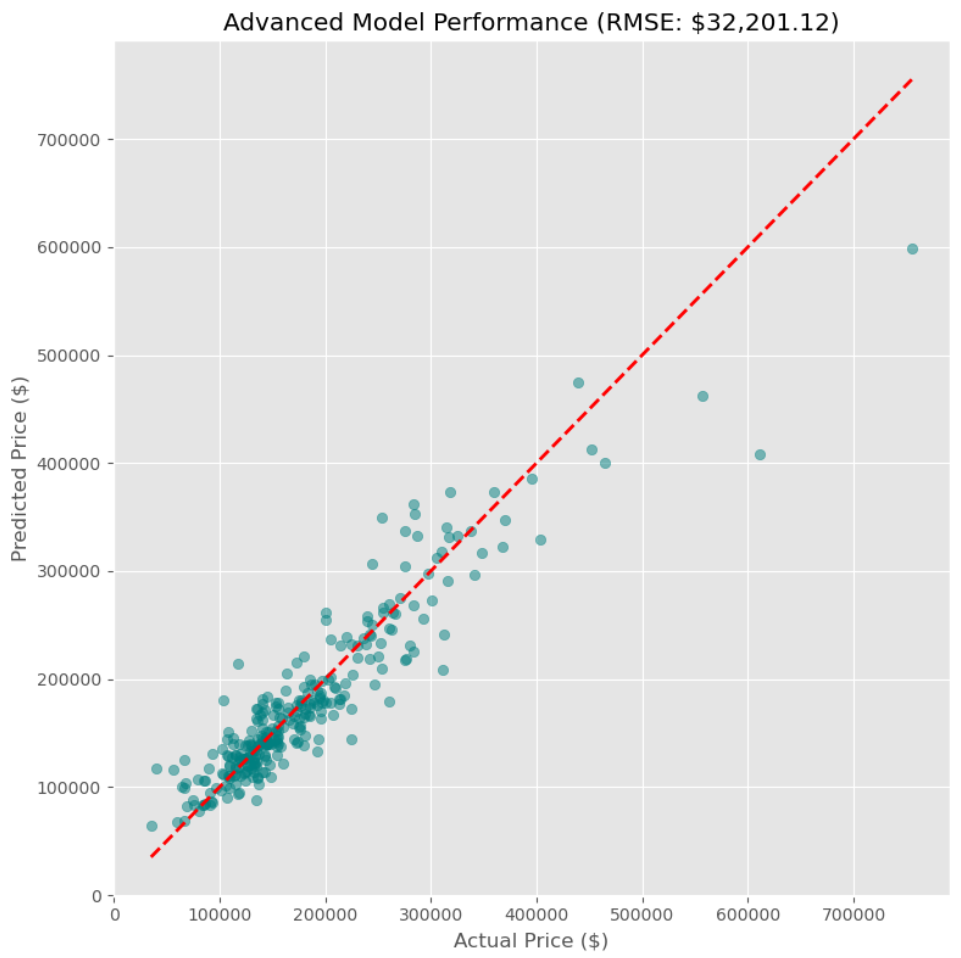
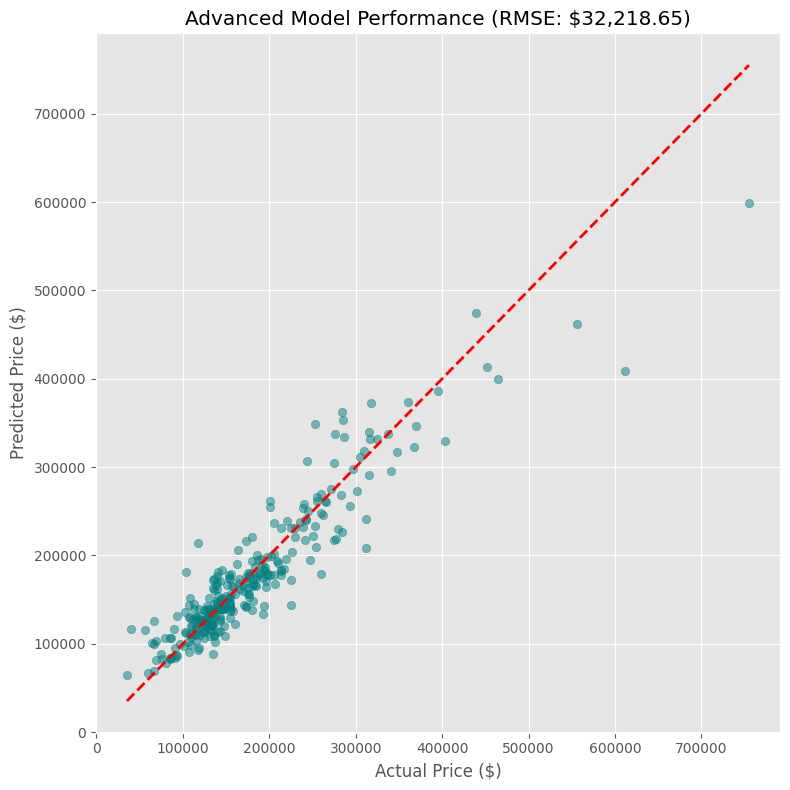
Update Data and Statistics inconsistency

diff --git a/reports/pdf/content/3. MÔ HÌNH HÓA CƠ SỞ - KỸ THUẬT TRONG ĐỀ CƯƠNG.tex b/reports/pdf/content/3. MÔ HÌNH HÓA CƠ SỞ - KỸ THUẬT TRONG ĐỀ CƯƠNG.tex
@@ -1,117 +1,117 @@
 \clearpage
-\section{Mô hình hoá cơ sở - kỹ thuật trong đề cương}
+\section{Mô hình hoá cơ sở sử dụng thuật toán đơn giản}
 \subsection{Lựa chọn thuật toán}
 %Mô hình Hồi quy tuyến tính (Linear Regression) áp dụng trên đặc trưng đơn (ví dụ: GrLivArea). Đây là phần đáp ứng yêu cầu dùng thuật toán trong đề cương môn học.
 Trong quá trình xây dựng mô hình cơ sở, nhóm lựa chọn \textbf{Hồi quy tuyến tính đơn giản (Simple Linear Regression)}. Đây là một thuật toán nền tảng trong học máy, thường được sử dụng để thiết lập baseline trước khi thử nghiệm các mô hình phức tạp hơn. \medskip
 
 Nhóm sẽ sử dụng Heatmap tương quan để quan sát sự tương quan giữa các thành phần với SalePrice.
 \begin{figure}[H]
-    \centering
-    \includegraphics[width=1\linewidth]{images/baseline_model/Heatmap.png}
-    \caption{Heatmap tương quan giữa các thành phần với SalePrice}
+  \centering
+  \includegraphics[width=1\linewidth]{images/baseline_model/Heatmap.png}
+  \caption{Heatmap tương quan giữa các thành phần với SalePrice}
 \end{figure}
 Sau khi quan sát biểu đồ Heatmap thì một số biến có độ tương quan với SalePrice vượt ngưỡng 0.7 là: Qual\_x\_TotalSF (0,82), Log\_GrLivArea (0.73), Log\_TotalSF (0.81), TotalSF (0.78), GrLivArea (0.7), OverallQual (0.82).
 \subsubsection{Cơ sở lựa chọn:}
 \begin{itemize}
-    \item[-] Qua phân tích biểu đồ tương quan, nhiều biến có hệ số tương quan cao với SalePrice như OverallQual, TotalSF, Log\_TotalSF. Tuy nhiên, các biến này phần lớn là kết quả của quá trình tiền xử lý hoặc kết hợp nhiều đặc trưng. Để đảm bảo tính đơn giản, trực quan và dễ diễn giải, nhóm đã lựa chọn GrLivArea - một đặc trưng gốc phản ánh diện tích sinh hoạt
-    \item[-] Nhóm sau đó sử dụng thêm biểu đồ phân tán (scatter plot) giữa GrLivArea và SalePrice để minh họa xu hướng tuyến tính rõ rệt: khi diện tích sinh hoạt càng lớn thì giá bán nhà càng cao.
+  \item[-] Qua phân tích biểu đồ tương quan, nhiều biến có hệ số tương quan cao với SalePrice như OverallQual, TotalSF, Log\_TotalSF. Tuy nhiên, các biến này phần lớn là kết quả của quá trình tiền xử lý hoặc kết hợp nhiều đặc trưng. Để đảm bảo tính đơn giản, trực quan và dễ diễn giải, nhóm đã lựa chọn GrLivArea - một đặc trưng gốc phản ánh diện tích sinh hoạt
+  \item[-] Nhóm sau đó sử dụng thêm biểu đồ phân tán (scatter plot) giữa GrLivArea và SalePrice để minh họa xu hướng tuyến tính rõ rệt: khi diện tích sinh hoạt càng lớn thì giá bán nhà càng cao.
 \end{itemize}
 \begin{figure}[H]
-    \centering
-    \includegraphics[width=1\linewidth]{images/baseline_model/Scatter.png}
-    \caption{Tuyến tính giữa GrLivArea và SalePrice}
+  \centering
+  \includegraphics[width=1\linewidth]{images/baseline_model/Scatter.png}
+  \caption{Tuyến tính giữa GrLivArea và SalePrice}
 \end{figure}
 \begin{itemize}
-    \item[-] Do mối quan hệ tuyến tính nổi bật, nhóm lựa chọn \textbf{Hồi quy tuyến tính đơn giản (Simple Linear Regression)} làm mô hình cơ sở.
-    \item[-] Đây là thuật toán nền tảng, dễ triển khai và dễ diễn giải, phù hợp để thiết lập baseline trước khi thử nghiệm các mô hình phức tạp hơn.
+  \item[-] Do mối quan hệ tuyến tính nổi bật, nhóm lựa chọn \textbf{Hồi quy tuyến tính đơn giản (Simple Linear Regression)} làm mô hình cơ sở.
+  \item[-] Đây là thuật toán nền tảng, dễ triển khai và dễ diễn giải, phù hợp để thiết lập baseline trước khi thử nghiệm các mô hình phức tạp hơn.
 \end{itemize}
 \subsubsection{Ý nghĩa của việc chọn mô hình cơ sở:}
 \begin{itemize}
-    \item[-] Thiết lập chuẩn mực ban đầu để so sánh hiệu quả cải thiện khi áp dụng các mô hình đa biến hoặc phi tuyến tính.
-    \item[-] Kiểm chứng giả thuyết rằng diện tích sinh hoạt là một yếu tố quan trọng trong việc định giá nhà.
-    \item[-] Cho phép trực quan hóa mối quan hệ giữa biến đầu vào và biến mục tiêu, từ đó phát hiện những giới hạn của mô hình này. 
+  \item[-] Thiết lập chuẩn mực ban đầu để so sánh hiệu quả cải thiện khi áp dụng các mô hình đa biến hoặc phi tuyến tính.
+  \item[-] Kiểm chứng giả thuyết rằng diện tích sinh hoạt là một yếu tố quan trọng trong việc định giá nhà.
+  \item[-] Cho phép trực quan hóa mối quan hệ giữa biến đầu vào và biến mục tiêu, từ đó phát hiện những giới hạn của mô hình này.
 \end{itemize}
 \subsection{Huấn luyện và Đánh giá}
 %Phân tích các chỉ số đánh giá (RMSE, R-squared) và đồ thị phân dư (Residuals).
 \subsubsection{Quá trình huấn luyện:}
 \begin{itemize}
-    \item[-] Dataset sẽ được chia thành Training set (80\%) và Validation set (20\%).
+  \item[-] Dataset sẽ được chia thành Training set (80\%) và Validation set (20\%).
 \end{itemize}
 \begin{figure}[H]
-    \centering
-    \includegraphics[width=0.8\linewidth]{images/baseline_model/SplitDataset.png}
-    \caption{Chia Dataset thành Training và Validation set}
+  \centering
+  \includegraphics[width=0.8\linewidth]{images/baseline_model/SplitDataset.png}
+  \caption{Chia Dataset thành Training và Validation set}
 \end{figure}
 \begin{itemize}
-    \item[-] Sau khi thực hiện chia dữ liệu thành các tập training và validation thì nhóm đưa dữ liệu vào mô hình để huấn luyện.
+  \item[-] Sau khi thực hiện chia dữ liệu thành các tập training và validation thì nhóm đưa dữ liệu vào mô hình để huấn luyện.
 \end{itemize}
 \begin{figure}[H]
-    \centering
-    \includegraphics[width=0.5\linewidth]{images/baseline_model/Model.png}
-    \caption{Đưa dữ liệu vào mô hình}
+  \centering
+  \includegraphics[width=0.5\linewidth]{images/baseline_model/Model.png}
+  \caption{Đưa dữ liệu vào mô hình}
 \end{figure}
 \begin{itemize}
-    \item[-] Sau khi huấn luyện, mô hình được dùng để dự đoán giá nhà trên tập dữ liệu kiểm định.
+  \item[-] Sau khi huấn luyện, mô hình được dùng để dự đoán giá nhà trên tập dữ liệu kiểm định.
 \end{itemize}
 \subsubsection{Trực quan hóa kết quả mô hình:}
 \begin{itemize}
-    \item[-] Để kiểm chứng hiệu quả của mô hình hồi quy tuyến tính đơn giản, nhóm biểu diễn đường hồi quy (regression line) trên tập kiểm định và phân tích sai số qua biểu đồ sai số (residual plot).
+  \item[-] Để kiểm chứng hiệu quả của mô hình hồi quy tuyến tính đơn giản, nhóm biểu diễn đường hồi quy (regression line) trên tập kiểm định và phân tích sai số qua biểu đồ sai số (residual plot).
 \end{itemize}
 \begin{figure}[H]
-    \includegraphics[width=1\linewidth]{images/baseline_model/RegressionLine.png}
-    \caption{Đường hồi quy tuyến tính giữa GrLivArea và SalePrice trên tập kiểm định}
+  \includegraphics[width=1\linewidth]{images/baseline_model/RegressionLine.png}
+  \caption{Đường hồi quy tuyến tính giữa GrLivArea và SalePrice trên tập kiểm định}
 \end{figure}
 \begin{figure}[H]
-    \includegraphics[width=1\linewidth]{images/baseline_model/ResidualPlot.png}
-    \caption{Biểu đồ sai số (Residual Plot) kiểm tra độ lệch của mô hình}
+  \includegraphics[width=1\linewidth]{images/baseline_model/ResidualPlot.png}
+  \caption{Biểu đồ sai số (Residual Plot) kiểm tra độ lệch của mô hình}
 \end{figure}
 \subsubsection{Kết quả đánh giá:}
 \begin{itemize}
-    \item[-] Nhóm sẽ sử dụng công thức RMSE (Root Mean Squared Error) để đo lường độ lệch trung bình giữa giá trị dự đoán và giá trị thực tế và công thức R-squared để nhận biết mô hình giải thích được bao nhiêu phần trăm biến thiên của dữ liệu.
-    \item[-] Công thức RMSE: 
-\begin{equation}
-RMSE = \sqrt{\frac{1}{n} \sum_{i=1}^{n} (y_i - \hat{y}_i)^2}
-\end{equation}
-    \item[-] Công thức R-Squared: 
-\begin{equation}
-R^2 = 1 - \frac{SS_{res}}{SS_{tot}} = 1 - \frac{\sum_{i=1}^{n} (y_i - \hat{y}_i)^2}{\sum_{i=1}^{n} (y_i - \bar{y})^2}
-\end{equation}
-    \item[-] RMSE (Root Mean Squared Error): \$58,137.54 
-    \item[-] R-Squared: 0.5402
+  \item[-] Nhóm sẽ sử dụng công thức RMSE (Root Mean Squared Error) để đo lường độ lệch trung bình giữa giá trị dự đoán và giá trị thực tế và công thức R-squared để nhận biết mô hình giải thích được bao nhiêu phần trăm biến thiên của dữ liệu.
+  \item[-] Công thức RMSE:
+    \begin{equation}
+      RMSE = \sqrt{\frac{1}{n} \sum_{i=1}^{n} (y_i - \hat{y}_i)^2}
+    \end{equation}
+  \item[-] Công thức R-Squared:
+    \begin{equation}
+      R^2 = 1 - \frac{SS_{res}}{SS_{tot}} = 1 - \frac{\sum_{i=1}^{n} (y_i - \hat{y}_i)^2}{\sum_{i=1}^{n} (y_i - \bar{y})^2}
+    \end{equation}
+  \item[-] RMSE (Root Mean Squared Error): \$58,137.54
+  \item[-] R-Squared: 0.5402
 \end{itemize}
 \subsubsection{Diễn giải kết quả:}
 \begin{itemize}
-    \item[-] Mô hình giải thích được khoảng 54\% sự biến thiên của giá nhà, xác nhận rằng diện tích sinh hoạt là một biến dự báo mạnh.
-    \item[-] Tuy nhiên, sai số trung bình khoảng \$58k là khá lớn, cho thấy mô hình bỏ qua nhiều yếu tố quan trọng khác.
-    \item[-] Biểu đồ residual cho thấy sai số phân tán rộng, chứng minh rằng mô hình tuyến tính đơn biến chưa đủ để mô tả toàn bộ dữ liệu. 
+  \item[-] Mô hình giải thích được khoảng 54\% sự biến thiên của giá nhà, xác nhận rằng diện tích sinh hoạt là một biến dự báo mạnh.
+  \item[-] Tuy nhiên, sai số trung bình khoảng \$58k là khá lớn, cho thấy mô hình bỏ qua nhiều yếu tố quan trọng khác.
+  \item[-] Biểu đồ residual cho thấy sai số phân tán rộng, chứng minh rằng mô hình tuyến tính đơn biến chưa đủ để mô tả toàn bộ dữ liệu.
 \end{itemize}
 
 \subsection{Nhận xét giới hạn của mô hình cơ sở}
 \subsubsection{Những giới hạn chính:}
 \begin{enumerate}
-    \item Đơn biến:
+  \item Đơn biến:
     \begin{itemize}
-        \item[-] Mô hình chỉ sử dụng một đặc trưng duy nhất (GrLivArea).
-        \item[-] Bỏ qua các yếu tố quan trọng khác như chất lượng xây dựng (OverallQual), tổng diện tích (TotalSF), vị trí địa lý, tuổi thọ căn nhà, số phòng, ...
+      \item[-] Mô hình chỉ sử dụng một đặc trưng duy nhất (GrLivArea).
+      \item[-] Bỏ qua các yếu tố quan trọng khác như chất lượng xây dựng (OverallQual), tổng diện tích (TotalSF), vị trí địa lý, tuổi thọ căn nhà, số phòng, ...
     \end{itemize}
-    \item Giả định tuyến tính:
+  \item Giả định tuyến tính:
     \begin{itemize}
-        \item[-] Hồi quy tuyến tính đơn giản giả định mối quan hệ tuyến tính hoàn toàn giữa diện tích sinh hoạt và giá nhà.
-        \item[-] Thực tế, giá nhà thường chịu ảnh hưởng phi tuyến tính và tương tác giữa nhiều biến. 
+      \item[-] Hồi quy tuyến tính đơn giản giả định mối quan hệ tuyến tính hoàn toàn giữa diện tích sinh hoạt và giá nhà.
+      \item[-] Thực tế, giá nhà thường chịu ảnh hưởng phi tuyến tính và tương tác giữa nhiều biến.
     \end{itemize}
-    \item Sai số cao:
+  \item Sai số cao:
     \begin{itemize}
-        \item[-] RMSE ~ \$58k là mức sai số lớn, không đủ để ứng dụng trong thực tế.
-        \item[-] Biểu đồ residual cho thấy sai số phân tán rộng, chứng minh mô hình chưa nắm bắt hết cấu trúc dữ liệu.
+      \item[-] RMSE ~ \$58k là mức sai số lớn, không đủ để ứng dụng trong thực tế.
+      \item[-] Biểu đồ residual cho thấy sai số phân tán rộng, chứng minh mô hình chưa nắm bắt hết cấu trúc dữ liệu.
     \end{itemize}
-    \item Khả năng khái quát hạn chế:
+  \item Khả năng khái quát hạn chế:
     \begin{itemize}
-        \item[-] Mô hình cơ sở chỉ phù hợp để minh họa xu hướng tổng quát, không thể dự đoán chính xác cho từng trường hợp cụ thể.
+      \item[-] Mô hình cơ sở chỉ phù hợp để minh họa xu hướng tổng quát, không thể dự đoán chính xác cho từng trường hợp cụ thể.
     \end{itemize}
 \end{enumerate}
 \subsubsection{Chiến lược cải thiện:}
 \begin{itemize}
-    \item[-] \textbf{Hồi quy đa biến:} Kết hợp nhiều đặc trưng có tương quan cao với SalePrice.
-    \item[-] \textbf{Thuật toán phi tuyến tính:} Áp dụng Random Forest, Gradient Boosting hoặc XGBoost để nắm bắt quan hệ phức tạp.
-    \item[-] \textbf{Feature engineering:} Sử dụng các biến đã qua xử lý (log-transform, kết hợp đặc trưng) để giảm sai số.
+  \item[-] \textbf{Hồi quy đa biến:} Kết hợp nhiều đặc trưng có tương quan cao với SalePrice.
+  \item[-] \textbf{Thuật toán phi tuyến tính:} Áp dụng Random Forest, Gradient Boosting hoặc XGBoost để nắm bắt quan hệ phức tạp.
+  \item[-] \textbf{Feature engineering:} Sử dụng các biến đã qua xử lý (log-transform, kết hợp đặc trưng) để giảm sai số.
 \end{itemize}

diff --git a/reports/pdf/content/4. MÔ HÌNH HÓA NÂNG CAO.tex b/reports/pdf/content/4. MÔ HÌNH HÓA NÂNG CAO.tex
@@ -1,91 +1,91 @@
 \clearpage
-\section{Mô hình hóa nâng cao} 
+\section{Mô hình hóa nâng cao}
 \subsection{Lựa chọn kỹ thuật}
 %Giới thiệu thuật toán học máy tập hợp (Ensemble Learning) - Random Forest Regressor đa biến.
 Trong giai đoạn mô hình hóa nâng cao, nhóm lựa chọn Random Forest Regressor – một thuật toán thuộc nhóm Ensemble Learning. Random Forest hoạt động bằng cách xây dựng nhiều cây quyết định (Decision Trees) trên các tập dữ liệu con khác nhau, sau đó kết hợp kết quả dự đoán của chúng để đưa ra giá trị cuối cùng
 \subsubsection{Cơ sở lựa chọn:}
 \begin{itemize}
-    \item[-] \textbf{Khả năng nắm bắt quan hệ phi tuyến tính:} Khác với hồi quy tuyến tính đơn giản, Random Forest có thể mô hình hóa các mối quan hệ phức tạp và phi tuyến tính giữa nhiều đặc trưng và giá nhà.
-    \item[-] \textbf{Giảm thiểu overfitting:} Nhờ cơ chế bootstrap sampling và bagging, Random Forest thường ổn định hơn so với một cây quyết định đơn lẻ.
-    \item[-] \textbf{Khai thác đa biến:} Mô hình cho phép sử dụng nhiều đặc trưng cùng lúc (ví dụ: OverallQual, TotalSF, GrLivArea, các biến log-transform), từ đó tận dụng tối đa thông tin trong dữ liệu.
-    \item[-] \textbf{Phân tích độ quan trọng đặc trưng (Feature Importance):} Random Forest cung cấp thước đo định lượng cho thấy đặc trưng nào ảnh hưởng mạnh nhất đến giá nhà, giúp mô hình vừa chính xác vừa dễ diễn giải.
+  \item[-] \textbf{Khả năng nắm bắt quan hệ phi tuyến tính:} Khác với hồi quy tuyến tính đơn giản, Random Forest có thể mô hình hóa các mối quan hệ phức tạp và phi tuyến tính giữa nhiều đặc trưng và giá nhà.
+  \item[-] \textbf{Giảm thiểu overfitting:} Nhờ cơ chế bootstrap sampling và bagging, Random Forest thường ổn định hơn so với một cây quyết định đơn lẻ.
+  \item[-] \textbf{Khai thác đa biến:} Mô hình cho phép sử dụng nhiều đặc trưng cùng lúc (ví dụ: OverallQual, TotalSF, GrLivArea, các biến log-transform), từ đó tận dụng tối đa thông tin trong dữ liệu.
+  \item[-] \textbf{Phân tích độ quan trọng đặc trưng (Feature Importance):} Random Forest cung cấp thước đo định lượng cho thấy đặc trưng nào ảnh hưởng mạnh nhất đến giá nhà, giúp mô hình vừa chính xác vừa dễ diễn giải.
 \end{itemize}
 \subsubsection{Ý nghĩa học thuật:}
 \begin{itemize}
-    \item[-] Việc lựa chọn Random Forest thể hiện bước chuyển từ mô hình cơ sở đơn giản sang mô hình nâng cao, có khả năng cải thiện đáng kể độ chính xác.
-    \item[-] Đây là một trong những thuật toán phổ biến và mạnh mẽ nhất trong các bài toán dự đoán giá nhà.
+  \item[-] Việc lựa chọn Random Forest thể hiện bước chuyển từ mô hình cơ sở đơn giản sang mô hình nâng cao, có khả năng cải thiện đáng kể độ chính xác.
+  \item[-] Đây là một trong những thuật toán phổ biến và mạnh mẽ nhất trong các bài toán dự đoán giá nhà.
 \end{itemize}
 
 \subsection{Quá trình huấn luyện}
 %Các thiết lập tham số và quá trình fit mô hình.
 \subsubsection{Thiết lập tham số:}
 \begin{itemize}
-    \item[-] Mô hình được khởi tạo với Random Forest Regressor gồm 100 cây quyết định (decision tree) (\verb|n_estimators = 100|).
-    \item[-] Sử dụng \verb|random_state = 42| để đảm bảo tính tái lập kết quả.
-    \item[-] Tham số \verb|n_jobs = -1| cho phép tận dụng toàn bộ lõi CPU để tăng tốc độ huấn luyện.
+  \item[-] Mô hình được khởi tạo với Random Forest Regressor gồm 100 cây quyết định (decision tree) (\verb|n_estimators = 100|).
+  \item[-] Sử dụng \verb|random_state = 42| để đảm bảo tính tái lập kết quả.
+  \item[-] Tham số \verb|n_jobs = -1| cho phép tận dụng toàn bộ lõi CPU để tăng tốc độ huấn luyện.
 \end{itemize}
 \subsubsection{Quá trình huấn luyện:}
 \begin{figure}[H]
-    \centering
-    \includegraphics[width=1\linewidth]{images/baseline_model/Heatmap.png}
-    \caption{Heatmap tương quan giữa các thành phần với SalePrice}
+  \centering
+  \includegraphics[width=1\linewidth]{images/baseline_model/Heatmap.png}
+  \caption{Heatmap tương quan giữa các thành phần với SalePrice}
 \end{figure}
 \begin{enumerate}
-    \item \textbf{Chọn đặc trưng:} Dựa trên phân tích tương quan, nhóm lựa chọn các biến có hệ số tương quan cao với SalePrice như:
+  \item \textbf{Chọn đặc trưng:} Dựa trên phân tích tương quan, nhóm lựa chọn các biến có hệ số tương quan cao với SalePrice như:
     \begin{itemize}
-        \item[-] Qual\_x\_TotalSF (0.82)
-        \item[-] Log\_GrLivArea (0.73)
-        \item[-] Log\_TotalSF (0.81)
-        \item[-] TotalSF (0.78)
-        \item[-] GrLivArea (0.7)
-        \item[-] OverallQual (0.82)
+      \item[-] Qual\_x\_TotalSF (0.82)
+      \item[-] Log\_GrLivArea (0.73)
+      \item[-] Log\_TotalSF (0.81)
+      \item[-] TotalSF (0.78)
+      \item[-] GrLivArea (0.7)
+      \item[-] OverallQual (0.82)
     \end{itemize}
-    \item \textbf{Chia tập dữ liệu:} Sau đó tiến hành tách dữ liệu ra thành Training và Validation set để đưa vào mô hình huấn luyện.
+  \item \textbf{Chia tập dữ liệu:} Sau đó tiến hành tách dữ liệu ra thành Training và Validation set để đưa vào mô hình huấn luyện.
 \end{enumerate}
 \begin{figure}[H]
-    \centering
-    \includegraphics[width=1\linewidth]{images/advanced_model/SplitData.png}
-    \caption{Chia dữ liệu thành training và validation set}
+  \centering
+  \includegraphics[width=1\linewidth]{images/advanced_model/SplitData.png}
+  \caption{Chia dữ liệu thành training và validation set}
 \end{figure}
 
 \begin{enumerate}
-    \item[3]  \textbf{Huấn luyện mô hình:} Fit Random Forest trên tập huấn luyện để học mối quan hệ giữa các đặc trưng và giá nhà.
-    \item[4] \textbf{Dự đoán:} Thực hiện dự đoán trên tập kiểm định, kết quả được chuyển đổi về đơn vị USD thực tế để so sánh với mô hình cơ sở.
+  \item[3]  \textbf{Huấn luyện mô hình:} Fit Random Forest trên tập huấn luyện để học mối quan hệ giữa các đặc trưng và giá nhà.
+  \item[4] \textbf{Dự đoán:} Thực hiện dự đoán trên tập kiểm định, kết quả được chuyển đổi về đơn vị USD thực tế để so sánh với mô hình cơ sở.
 \end{enumerate}
 \begin{itemize}
-    \item[-] RMSE: \$32,201.12
-    \item[-] Kết quả dự đoán trên tập kiểm định cho thấy mô hình Random Forest đã cải thiện đáng kể so với mô hình cơ sở.
+  \item[-] RMSE: \$32,218.65
+  \item[-] Kết quả dự đoán trên tập kiểm định cho thấy mô hình Random Forest đã cải thiện đáng kể so với mô hình cơ sở.
 \end{itemize}
 
 \subsubsection{Phân tích độ quan trọng đặc trưng:}
 Sau khi huấn luyện, nhóm sử dụng thuộc tính feature\_importances\_ để xác định mức độ đóng góp của từng đặc trưng vào mô hình.
 \begin{figure}[H]
-    \centering
-    \includegraphics[width=1\linewidth]{images/advanced_model/feature_importances.png}
-    \caption{Biểu đồ độ quan trọng của các đặc trưng trong Random Forest}
+  \centering
+  \includegraphics[width=1\linewidth]{images/advanced_model/feature_importances.png}
+  \caption{Biểu đồ độ quan trọng của các đặc trưng trong Random Forest}
 \end{figure}
 \begin{itemize}
-    \item[-] Biểu đồ độ quan trọng cho thấy OverallQual (chất lượng tổng thể) và TotalSF (tổng diện tích) là hai yếu tố chi phối mạnh nhất đến giá nhà.
-    \item[-] GrLivArea vẫn có vai trò quan trọng, nhưng không còn là đặc trưng mạnh nhất như trong mô hình cơ sở.
-    \item[-] Các biến đã qua xử lý như Log\_TotalSF và Qual\_x\_TotalSF cũng đóng góp đáng kể, chứng minh rằng việc tiền xử lý và tạo đặc trưng mới giúp mô hình nâng cao nắm bắt dữ liệu tốt hơn.
+  \item[-] Các biến đã qua phép xử lý như Log\_TotalSF và Qual\_x\_TotalSF, đặc biệt là biến Qual\_x\_TotalSF có đóng góp mạnh nhất (85\%), chứng minh rằng việc tiền xử lý và tạo đặc trưng mới giúp mô hình nâng cao nắm bắt dữ liệu tốt hơn.
+  \item[-] Biểu đồ độ quan trọng cho thấy OverallQual (chất lượng tổng thể) và TotalSF (tổng diện tích) là hai yếu tố ít chi phối đến giá nhà.
+  \item[-] GrLivArea vẫn có vai trò quan trọng, nhưng không còn là đặc trưng mạnh nhất như trong mô hình cơ sở.
 \end{itemize}
 
 \subsection{Kết quả đánh giá mô hình nâng cao}
 \begin{figure}[H]
-    \centering
-    \includegraphics[width=1\linewidth]{images/advanced_model/Result.png}
-    \caption{So sánh giá trị dự đoán và giá trị thực tế}
+  \centering
+  \includegraphics[width=1\linewidth]{images/advanced_model/Result.png}
+  \caption{So sánh giá trị dự đoán và giá trị thực tế}
 \end{figure}
 \subsubsection{Kết quả đánh giá:}
 \begin{itemize}
-    \item[-] RMSE của RandomForest: \$32,201.12
-    \item[-] RMSE của Baseline (Linear Regression): \$58,137.54
-    \item[-] Mô hình RandomForest đã giảm \$26,000 so với mô hình cơ sở.
+  \item[-] RMSE của RandomForest: \$32,218.65
+  \item[-] RMSE của Baseline (Linear Regression): \$58,137.54
+  \item[-] Mô hình RandomForest đã giảm \$25,919 so với mô hình cơ sở.
 \end{itemize}
 \subsubsection{Nhận xét:}
 \begin{itemize}
-    \item[-] Scatter plot minh họa rằng các điểm dự đoán nằm gần đường chéo (Actual = Predicted), chứng tỏ mô hình có độ chính xác cao hơn và sai số giảm.
-    \item[-] Việc giảm RMSE từ ~58k xuống ~32k là một bước nhảy lớn, khẳng định hiệu quả của việc kết hợp nhiều đặc trưng và sử dụng mô hình phi tuyến tính
-    \item[-] Phân tích độ quan trọng đặc trưng cho thấy OverallQual và TotalSF là yếu tố chi phối mạnh nhất đến giá nhà, trong khi GrLivArea chỉ đóng vai trò bổ sung.
-    \item[-] Như vậy, mô hình nâng cao không chỉ cải thiện hiệu suất dự đoán mà còn mang lại insight thực tế: chất lượng xây dựng và tổng diện tích là yếu tố quyết định giá trị bất động sản.
+  \item[-] Scatter plot minh họa rằng các điểm dự đoán nằm gần đường chéo (Actual = Predicted), chứng tỏ mô hình có độ chính xác cao hơn và sai số giảm.
+  \item[-] Việc giảm RMSE từ khoảng 58k xuống  còn khoảng 32k là một bước nhảy lớn, khẳng định hiệu quả của việc kết hợp nhiều đặc trưng và sử dụng mô hình phi tuyến tính
+  \item[-] Phân tích độ quan trọng đặc trưng cho thấy OverallQual và TotalSF là yếu tố chi phối mạnh nhất đến giá nhà, trong khi GrLivArea chỉ đóng vai trò bổ sung.
+  \item[-] Như vậy, mô hình nâng cao không chỉ cải thiện hiệu suất dự đoán mà còn mang lại insight thực tế: chất lượng xây dựng và tổng diện tích là yếu tố quyết định giá trị bất động sản.
 \end{itemize}

diff --git a/reports/pdf/content/5. SO SÁNH, TRỰC QUAN HÓA VÀ KHAI PHÁ TRI THỨC.tex b/reports/pdf/content/5. SO SÁNH, TRỰC QUAN HÓA VÀ KHAI PHÁ TRI THỨC.tex
@@ -29,7 +29,7 @@ Thông qua thuộc tính \texttt{feature\_importances\_} của mô hình Random 
 
 Kết quả phân tích cho thấy sự phân hóa rõ rệt:
 \begin{itemize}
-\item \textbf{Chất lượng tổng thể (\texttt{OverallQual}):} Đây là đặc trưng mang tính quyết định lớn nhất, chiếm hơn 48\% mức độ ảnh hưởng đến giá nhà. Điều này cho thấy yếu tố thẩm mỹ, vật liệu hoàn thiện và tình trạng bảo trì đóng vai trò then chốt trong định giá bất động sản.
-\item \textbf{Các yếu tố về diện tích (\texttt{TotalSF}, \texttt{GrLivArea}):} Diện tích sử dụng thực tế (đặc biệt là không gian sống trên mặt đất và tổng diện tích khu vực) là nhóm yếu tố quan trọng thứ hai. Không gian rộng rãi luôn đi kèm với giá trị cơ bản của bất động sản.
+\item \textbf{Biến kết hợp (\texttt{Qual\_x\_TotalSF}) giữa chất lượng tổng thể (\texttt{OverallQual}) và tổng diện tích sử dụng ngôi nhà (\texttt{TotalSF}):} Đây là đặc trưng mang tính quyết định lớn nhất, chiếm hơn 85\% mức độ ảnh hưởng đến giá nhà. Điều này cho thấy yếu tố thẩm mỹ, vật liệu hoàn thiện và tình trạng bảo trì đóng vai trò then chốt trong định giá bất động sản.
+\item \textbf{Các yếu tố về diện tích (\texttt{TotalSF}, \texttt{GrLivArea}):} Diện tích sử dụng thực tế (đặc biệt là không gian sống trên mặt đất và tổng diện tích khu vực) là nhóm yếu tố có ảnh hưởng đáng kể. Không gian rộng rãi thường đi kèm với giá trị cơ bản của bất động sản.
 \item \textbf{Tối ưu nguồn lực dữ liệu:} Hệ thống định giá thực tế có thể dự đoán chính xác giá nhà chỉ bằng cách tập trung vào top 6-10 thông số quan trọng nhất thay vì phải thu thập toàn bộ hơn 80 biến số ban đầu. Việc này giúp tiết kiệm đáng kể chi phí thu thập và xử lý dữ liệu.
 \end{itemize}

diff --git a/reports/pdf/content/memlist.tex b/reports/pdf/content/memlist.tex
@@ -10,35 +10,24 @@
 \hline 
 %%%%%Student 1%%%%%%%%%%
 \multirow{3}{*}{1} & \multirow{3}{*}{Nguyễn Xuân Huy Hoàng} & \multirow{3}{*}{2311070} & 
-- Hoàn thành Concurrency Control & \multirow{3}{*}{100\%}\\
- & &  & - Làm Backend và Database  &\\
+        - So sánh kết quả các thuật toán và đưa ra kết luận & \multirow{3}{*}{100\%}\\
+ & &  & &\\
  & &  & &\\
 \hline 
 %%%%%Student 2%%%%%%%%%%%
-\multirow{4}{*}{2} & \multirow{4}{*}{Lê Đình Đức} & \multirow{4}{*}{2310774} & 
-- Hoàn thành Query Processing & \multirow{4}{*}{100\%}\\
- & &  & - Làm Backend và Database  &\\
+\multirow{4}{*}{2} & \multirow{4}{*}{Phan Đăng Nhật Huy} & \multirow{4}{*}{2311226} & 
+        - Xử lý dữ liệu và chọn lọc feature & \multirow{4}{*}{100\%}\\
  & &  & &\\
  & &  & &\\
-\hline
-%%%%%Student 3%%%%%%%%%%%
-\multirow{3}{*}{3} & \multirow{3}{*}{Bùi Hữu Lợi} & \multirow{3}{*}{2311972} & 
-- Hoàn thành Transaction  & \multirow{3}{*}{100\%}\\
- & &  & - Làm Backend và Database  &\\
  & &  & &\\
 \hline
 %%%%%Student 3%%%%%%%%%%%
-\multirow{3}{*}{4} & \multirow{3}{*}{Nguyễn Văn Công Thành} & \multirow{3}{*}{2313133} & 
-- Hoàn thành Indexing & \multirow{3}{*}{100\%}\\
- & &  & - Làm Frontend &\\
- & &  & & \\
+\multirow{3}{*}{3} & \multirow{3}{*}{Sẻ Thế Hưng} & \multirow{3}{*}{2053079} & 
+        - Hiện thực thuật toán Linear Regression và Random Forest  & \multirow{3}{*}{100\%}\\
+ & &  & &\\
+ & &  & &\\
 \hline
-%%%%%Student 3%%%%%%%%%%%
-\multirow{3}{*}{5} & \multirow{3}{*}{Nguyễn Trần Yến Nhi} & \multirow{3}{*}{2312506} & 
-- Hoàn thành Data Storage \& Management  & \multirow{3}{*}{100\%}\\
- & &  & - Làm Frontend  & \\
- & &  & & \\
-\hline
+
 \end{tabular}
 \caption{\label{table1}Member list \& workload}
 \end{table}
